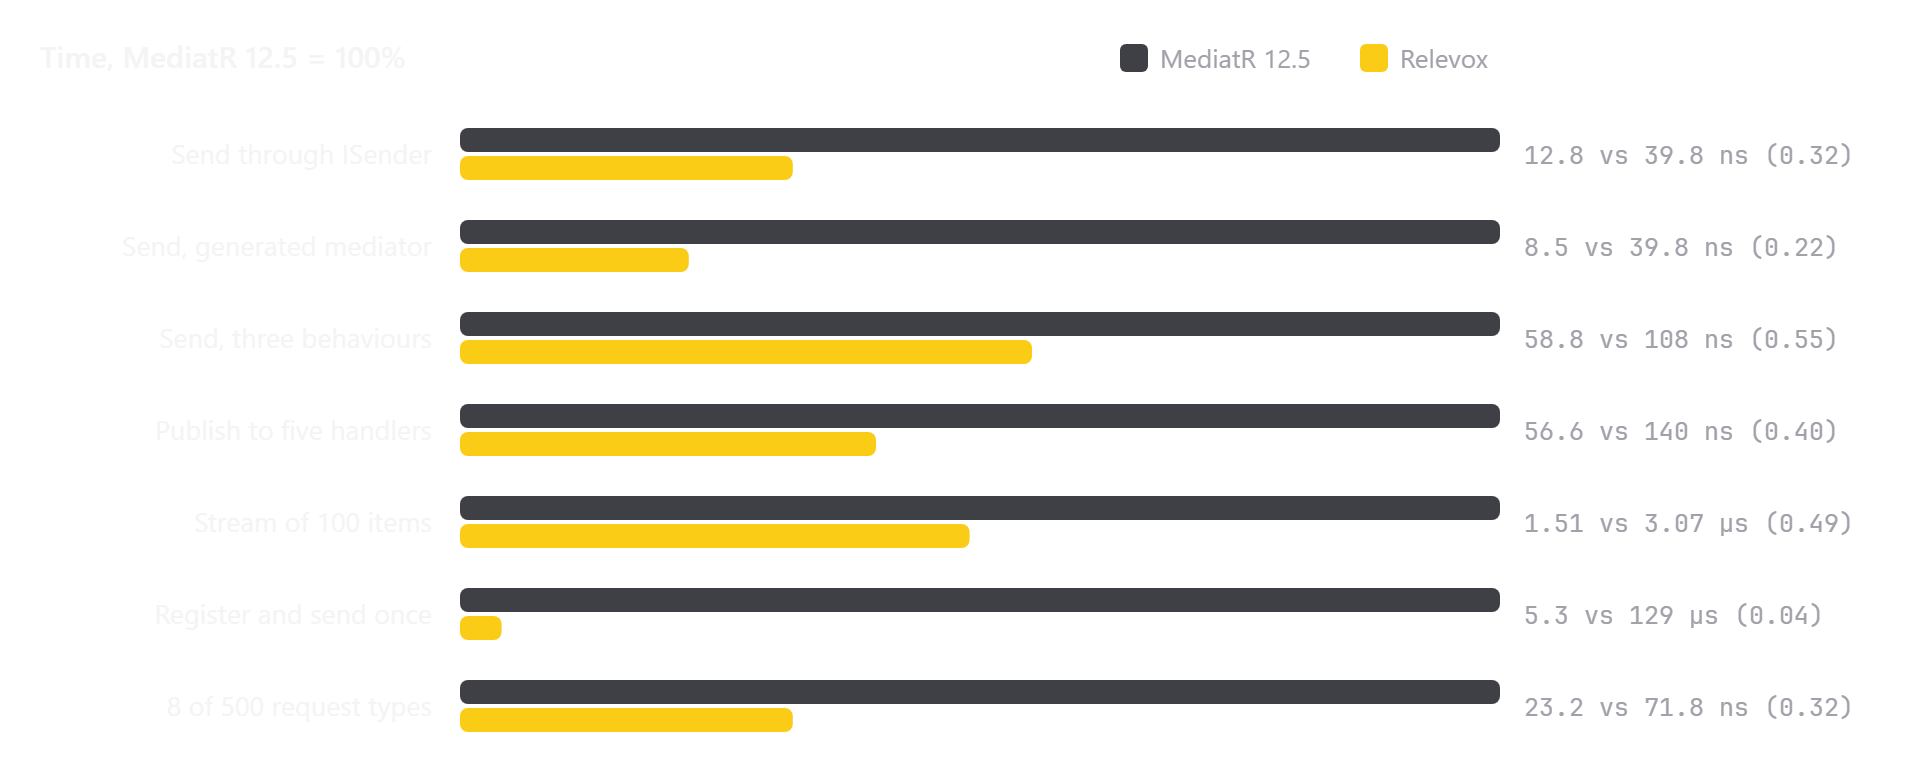
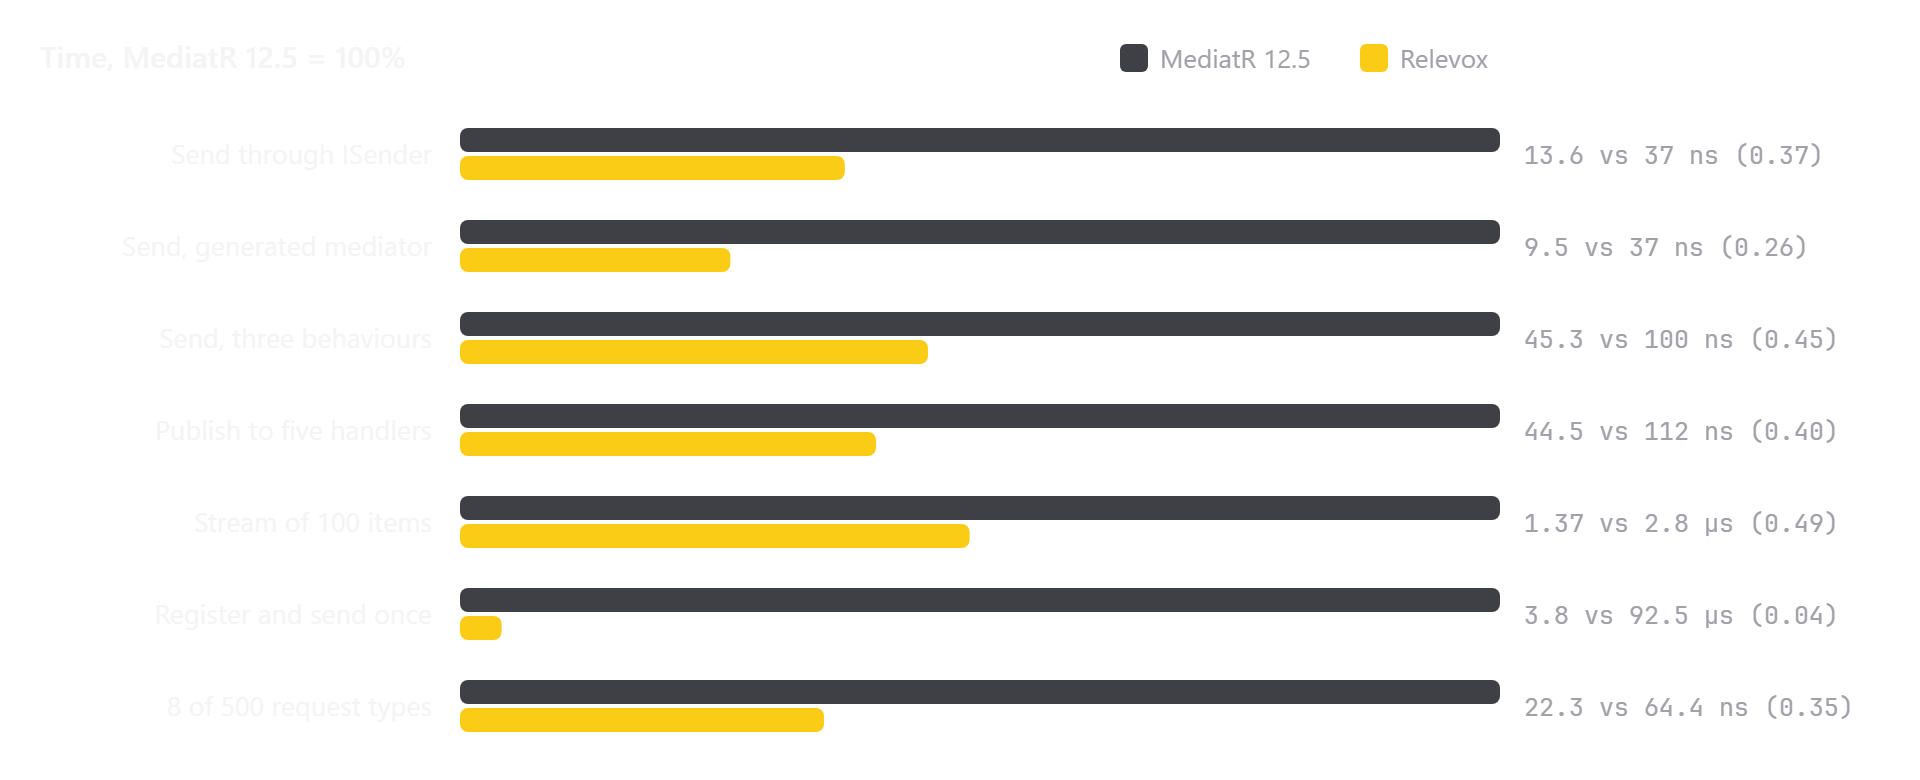
chore: release 1.2.0 with every benchmark run again

diff --git a/tools/diagrams.py b/tools/diagrams.py
@@ -152,17 +152,17 @@ def migration(t):
     ]
 
 
-# The README's benchmark table, from docs/benchmark-results/2026-10-20-1.1.0.md: (label, MediatR, Relevox, unit,
+# The README's benchmark table, from docs/benchmark-results/2026-10-21-1.2.0.md: (label, MediatR, Relevox, unit,
 # ratio). The ratio is BenchmarkDotNet's, as published, not one worked out from the rounded means here, which can
 # differ in the last digit.
 BENCHMARKS = [
-    ("Send through ISender", 39.8, 12.8, "ns", 0.32),
-    ("Send, generated mediator", 39.8, 8.5, "ns", 0.22),
-    ("Send, three behaviours", 108, 58.8, "ns", 0.55),
-    ("Publish to five handlers", 140, 56.6, "ns", 0.40),
-    ("Stream of 100 items", 3.07, 1.51, "µs", 0.49),
-    ("Register and send once", 129, 5.3, "µs", 0.04),
-    ("8 of 500 request types", 71.8, 23.2, "ns", 0.32),
+    ("Send through ISender", 37.0, 13.6, "ns", 0.37),
+    ("Send, generated mediator", 37.0, 9.5, "ns", 0.26),
+    ("Send, three behaviours", 100, 45.3, "ns", 0.45),
+    ("Publish to five handlers", 112, 44.5, "ns", 0.40),
+    ("Stream of 100 items", 2.80, 1.37, "µs", 0.49),
+    ("Register and send once", 92.5, 3.8, "µs", 0.04),
+    ("8 of 500 request types", 64.4, 22.3, "ns", 0.35),
 ]
 
 

diff --git a/docs/benchmark-results/2026-10-21-1.2.0.md b/docs/benchmark-results/2026-10-21-1.2.0.md
@@ -1,0 +1,98 @@
+# 1.2.0: every benchmark on the release code
+
+Same machine and harness as the earlier results, every benchmark class run on commit `c144211`, the 1.2.0 code,
+one class at a time:
+
+```
+BenchmarkDotNet v0.15.8, Windows 11 (10.0.26100.9448/24H2)
+Intel Core Ultra 7 255H 2.00GHz, 16 logical and 16 physical cores
+.NET SDK 10.0.402, runtime .NET 10.0.13, X64 RyuJIT x86-64-v3, DefaultJob
+```
+
+## What 1.2.0 changed in these numbers
+
+Telemetry is off in every benchmark but `TelemetryBenchmarks`, and off it costs a call one flag read. The send,
+pipeline, publish and stream rows sit where 1.1.0 put them, within this machine's noise, which for MediatR's own
+send runs from 32 to 42 ns across the runs published so far. Compare each library with MediatR in the same table.
+
+## Telemetry
+
+| | Mean | Allocated |
+|---|---:|---:|
+| Relevox singletons, typed, telemetry off | 1.08 ns | 0 B |
+| Relevox singletons, typed, telemetry on, nothing listening | 2.00 ns | 0 B |
+| Relevox singletons, typed, telemetry on, listening | 227.5 ns | 576 B |
+
+More on these, and the regression the first run of them caught, in [2026-10-21-telemetry.md](2026-10-21-telemetry.md).
+
+## Send
+
+| | Mean | Ratio | Allocated |
+|---|---:|---:|---:|
+| MediatR 12.5 | 37.05 ns | 1.00 | 128 B |
+| **Relevox, typed** | **9.54 ns** | **0.26** | 24 B |
+| Relevox, `ISender` | 13.65 ns | 0.37 | 24 B |
+| Relevox, object | 21.36 ns | 0.58 | 120 B |
+| Relevox singletons, typed | 1.06 ns | 0.03 | 0 B |
+| Relevox singletons, `ISender` | 7.98 ns | 0.22 | 0 B |
+| MediatR 12.5, object | 39.83 ns | 1.08 | 224 B |
+| Mediator 3.0, typed | 1.10 ns | 0.03 | 0 B |
+| Mediator 3.0, `ISender` | 4.57 ns | 0.12 | 0 B |
+| Mediator 3.0, object | 12.65 ns | 0.34 | 24 B |
+
+## Pipeline with three behaviours
+
+| | Mean | Ratio | Allocated |
+|---|---:|---:|---:|
+| MediatR 12.5 | 100.39 ns | 1.00 | 656 B |
+| **Relevox, typed** | **45.34 ns** | **0.45** | 392 B |
+| Mediator 3.0, typed | 7.73 ns | 0.08 | 0 B |
+
+## Built-in pre and post processors
+
+| | Mean | Ratio | Allocated |
+|---|---:|---:|---:|
+| MediatR 12.5 | 165.53 ns | 1.00 | 1088 B |
+| **Relevox, typed** | **70.64 ns** | **0.43** | 456 B |
+
+## Publish
+
+| | Mean | Ratio | Allocated |
+|---|---:|---:|---:|
+| MediatR 12.5, 1 handler | 50.12 ns | 1.00 | 288 B |
+| **Relevox, 1 handler** | **10.81 ns** | **0.22** | 24 B |
+| Mediator 3.0, 1 handler | 1.72 ns | 0.03 | 0 B |
+| MediatR 12.5, 5 handlers | 112.25 ns | 2.24 | 896 B |
+| **Relevox, 5 handlers** | **44.50 ns** | **0.89** | 120 B |
+| Mediator 3.0, 5 handlers | 14.85 ns | 0.30 | 0 B |
+
+## Stream of 100 items
+
+| | Mean | Ratio | Allocated |
+|---|---:|---:|---:|
+| MediatR 12.5 | 2.800 µs | 1.00 | 592 B |
+| **Relevox, typed** | **1.365 µs** | **0.49** | 328 B |
+| Mediator 3.0, typed | 1.297 µs | 0.46 | 200 B |
+
+## Register and send once
+
+| | Mean | Ratio | Allocated |
+|---|---:|---:|---:|
+| MediatR 12.5 | 92.47 µs | 1.00 | 378.1 KB |
+| **Relevox** | **3.84 µs** | **0.04** | 19.6 KB |
+| Mediator 3.0 | 12.65 µs | 0.14 | 49.2 KB |
+
+## 500 request types
+
+| | Mean | Ratio | Allocated |
+|---|---:|---:|---:|
+| MediatR 12.5 | 39.67 ns | 1.00 | 128 B |
+| **Relevox, typed** | **8.81 ns** | **0.22** | 24 B |
+| Relevox, `ISender` | 15.96 ns | 0.40 | 24 B |
+| Mediator 3.0 transient, typed | 29.56 ns | 0.75 | 88 B |
+| Mediator 3.0 transient, `ISender` | 34.42 ns | 0.87 | 88 B |
+| MediatR 12.5, 8 types in turn | 64.44 ns | 1.63 | 184 B |
+| **Relevox, `ISender`, 8 types in turn** | **22.31 ns** | **0.56** | 24 B |
+| Mediator 3.0 transient, `ISender`, 8 types in turn | 58.09 ns | 1.47 | 88 B |
+
+The scale run was stopped once when the machine ran short of memory and was run again on its own afterwards.

diff --git a/README.md b/README.md
@@ -55,29 +55,30 @@ anything:
 
 <picture>
   <source media="(prefers-color-scheme: dark)" srcset="docs/images/benchmarks-dark.png">
-  <img src="docs/images/benchmarks-light.png" alt="Relevox's time as a share of MediatR 12.5's, from 0.04 for registering and sending once to 0.55 for a send with three behaviours" width="760">
+  <img src="docs/images/benchmarks-light.png" alt="Relevox's time as a share of MediatR 12.5's, from 0.04 for registering and sending once to 0.49 for a stream of 100 items" width="760">
 </picture>
 
 Measured with BenchmarkDotNet 0.15.8 on an Intel Core Ultra 7 255H, .NET 10.0.13, Windows 11. Full tables,
 and what each number does and does not show, are in
-[docs/benchmark-results/2026-10-20-1.1.0.md](docs/benchmark-results/2026-10-20-1.1.0.md), measured for 1.1.0 on a
-busier machine than 1.0.1's run, so compare the ratios rather than the times.
+[docs/benchmark-results/2026-10-21-1.2.0.md](docs/benchmark-results/2026-10-21-1.2.0.md), measured for 1.2.0 with
+telemetry off. The machine's own noise moves MediatR's send between 32 and 42 ns across runs, so compare the
+ratios rather than the times.
 With allocations:
 
 | | MediatR 12.5 | Relevox | Relevox as a share of MediatR |
 |---|---:|---:|---:|
-| Send, through `ISender` | 39.8 ns, 128 B | 12.8 ns, 24 B | 0.32 |
-| Send, through the generated mediator | 39.8 ns, 128 B | 8.5 ns, 24 B | 0.22 |
-| Send with three behaviours | 108 ns, 656 B | 58.8 ns, 392 B | 0.55 |
-| Publish to five handlers | 140 ns, 896 B | 56.6 ns, 120 B | 0.40 |
-| Stream of 100 items | 3.07 µs, 592 B | 1.51 µs, 328 B | 0.49 |
-| Register and send once | 129 µs | 5.3 µs | 0.04 |
-| Eight request types in turn, of 500 | 71.8 ns | 23.2 ns | 0.32 |
+| Send, through `ISender` | 37.0 ns, 128 B | 13.6 ns, 24 B | 0.37 |
+| Send, through the generated mediator | 37.0 ns, 128 B | 9.5 ns, 24 B | 0.26 |
+| Send with three behaviours | 100 ns, 656 B | 45.3 ns, 392 B | 0.45 |
+| Publish to five handlers | 112 ns, 896 B | 44.5 ns, 120 B | 0.40 |
+| Stream of 100 items | 2.80 µs, 592 B | 1.37 µs, 328 B | 0.49 |
+| Register and send once | 92.5 µs | 3.8 µs | 0.04 |
+| Eight request types in turn, of 500 | 64.4 ns | 22.3 ns | 0.35 |
 
 Mediator 3.0, the other source-generated library, holds handlers as singletons by default, which Relevox does
 on request; a typed send then takes about 1 ns in both. Mediator stays ahead on behaviours and publishing,
-which it composes at build time. With transient handlers in both, Relevox's typed send is 10.0 ns against
-Mediator's 39.4 ns. Mediator's handlers return `ValueTask`, so moving to it means rewriting them;
+which it composes at build time. With transient handlers in both, Relevox's typed send is 8.8 ns against
+Mediator's 29.6 ns. Mediator's handlers return `ValueTask`, so moving to it means rewriting them;
 that is the trade [ADR 0002](docs/adr/0002-task-not-valuetask.md) explains.
 
 ## Quick start

diff --git a/CHANGELOG.md b/CHANGELOG.md
@@ -6,6 +6,12 @@ All notable changes to this project are written down here. The format follows
 
 ## [Unreleased]
 
+## [1.2.0] - 2026-10-21
+
+OpenTelemetry tracing and metrics, off by default. The names are fixed in
+[ADR 0013](docs/adr/0013-telemetry-names.md) and do not change within 1.x; [docs/telemetry.md](docs/telemetry.md)
+shows how to turn them on and what they emit.
+
 ### Added
 
 - Spans for `Send`, `Publish` and `CreateStream` on the `Relevox` activity source, turned on with
@@ -22,6 +28,16 @@ All notable changes to this project are written down here. The format follows
   marked `Error`. It works with `ForeachAwaitPublisher`, `TaskWhenAllPublisher` and a custom publisher, and for
   notification types known only at run time. Off by default even with telemetry on; with it off, a publish does
   no extra work per handler.
+- `RelevoxTelemetry.SourceName`, for `AddSource` and `AddMeter`.
+- The web sample exports its spans and metrics over OTLP when `OTEL_EXPORTER_OTLP_ENDPOINT` is set, and its
+  README shows how to watch them in the standalone Aspire dashboard.
+
+### Performance
+
+- Telemetry off costs a send one flag read: 1.08 ns for a singleton handler's typed send, against 1.06 ns in the
+  send benchmark. On with nothing listening, 2.0 ns; on with a listener, about 230 ns and 576 B, almost all of it
+  the `Activity`. Every benchmark was run on this code
+  ([results](docs/benchmark-results/2026-10-21-1.2.0.md), [telemetry](docs/benchmark-results/2026-10-21-telemetry.md)).
 
 ## [1.1.0] - 2026-10-20
 
